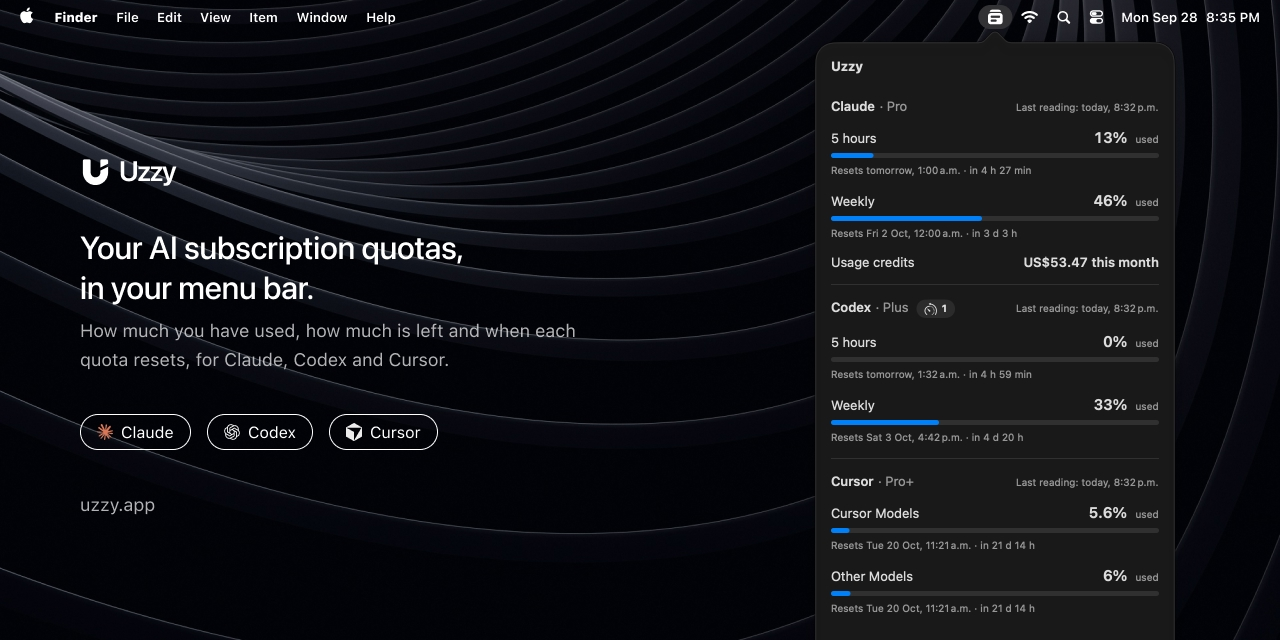
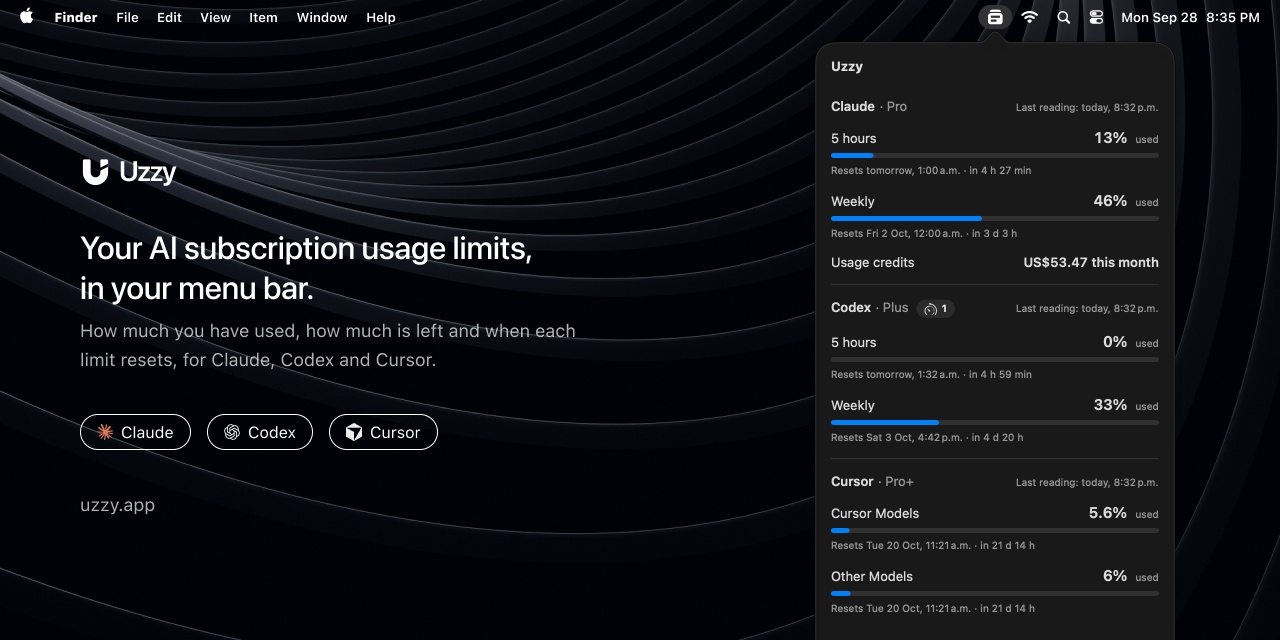
fix(site): say usage limits instead of quotas in the site, readme and og image (#142)
* docs(context): make the glossary cover all copy

- Add a Copy entry: the glossary applies to the app, uzzy.app, the
  README and the social images, not just the app.
- Allow shortening «usage limit» to «limit» once the text has said
  «usage limit» and it cannot be read as the monthly spend limit.

Ref: #140

* fix(site): say usage limits instead of quotas

- Hero, <title> and og:title now read «Your AI subscription usage
  limits, in your menu bar.»; the subtitle says «each limit resets».
- Each usage limit gets its own bar, with usage credits and banked
  resets shown next to them rather than counted as usage limits.
- Rename the providers' quotas field to shows, and reword the intro,
  privacy, disclaimer, CTA and alt texts.
- Re-export og.jpg from the Figma frame with the new headline.

Ref: #140

* docs(readme): say usage limits instead of quotas

- Open with the site's hero wording and subtitle.
- Rename the providers table's Quotas column to What it shows, and
  keep usage credits and banked resets apart from usage limits.

Closes: #140

* chore: say usage limits in the github social preview

- Re-export docs/images/github-social.jpg from the Figma frame
  «og:image - github (JPEG)» with the same headline and subtitle as
  og.jpg: «Your AI subscription usage limits, in your menu bar.» and
  «each limit resets».

Ref: #140

Changed region(s): [[0.0625, 0.5312, 0.3438, 0.5938], [0.2812, 0.375, 0.4062, 0.4062]]

diff --git a/site/src/content.ts b/site/src/content.ts
@@ -6,13 +6,13 @@ export const VERSION = "0.1.0";
 export const REQUIREMENTS = "macOS 27 · Apple Silicon";
 
 export const hero = {
-  title: "Your AI subscription quotas, in your menu bar.",
+  title: "Your AI subscription usage limits, in your menu bar.",
   subtitle:
-    "How much you have used, how much is left and when each quota resets, for Claude, Codex and Cursor.",
+    "How much you have used, how much is left and when each limit resets, for Claude, Codex and Cursor.",
 };
 
 export const why =
-  "If you pay for more than one AI coding subscription, finding out how close you are to a limit means opening each provider's dashboard. Uzzy puts every quota in one panel, reusing the sessions Claude Code, Codex CLI and Cursor already keep on your Mac. Nothing to sign in to, no API key to paste.";
+  "If you pay for more than one AI coding subscription, finding out how close you are to a limit means opening each provider's dashboard. Uzzy puts every usage limit in one panel, reusing the sessions Claude Code, Codex CLI and Cursor already keep on your Mac. Nothing to sign in to, no API key to paste.";
 
 export const features = [
   {
@@ -20,12 +20,12 @@ export const features = [
     body: "A menu bar icon opens a panel with a card for each subscription, and each card shows the account's plan next to its name.",
   },
   {
-    title: "Every quota on its own",
-    body: "5 hours, weekly, per model, usage credits: each quota gets its own bar, its reset in local time with a countdown, and when it was last read. Never blended into one number.",
+    title: "Every usage limit on its own",
+    body: "5 hours, weekly, per model: each usage limit gets its own bar, its reset in local time with a countdown, and when it was last read, never blended into one number. Usage credits and banked resets are shown next to them.",
   },
   {
     title: "Only asks while you look",
-    body: "Uzzy reads your quotas when you open the panel and every five minutes while it stays open. Closed, it makes no requests at all.",
+    body: "Uzzy reads your usage limits when you open the panel and every five minutes while it stays open. Closed, it makes no requests at all.",
   },
   {
     title: "Honest when things fail",
@@ -37,27 +37,27 @@ export const providers = [
   {
     name: "Claude",
     session: "Claude Code",
-    quotas: "5 hours, weekly, weekly per model, usage credits this month",
+    shows: "5 hours, weekly, weekly per model, usage credits this month",
   },
   {
     name: "Codex",
     session: "Codex CLI (ChatGPT sign-in)",
-    quotas: "5 hours, weekly, extra limits, banked resets",
+    shows: "5 hours, weekly, extra limits, banked resets",
   },
   {
     name: "Cursor",
     session: "Cursor",
-    quotas: "Cursor Models and Other Models for the billing cycle",
+    shows: "Cursor Models and Other Models for the billing cycle",
   },
 ];
 
 export const privacy = [
   "Reuses your existing sessions read-only. Never asks for a password, never signs in, never writes credentials.",
   "Talks only to api.anthropic.com, chatgpt.com and api2.cursor.sh. No telemetry, no server of its own.",
-  "Quotas live in memory only. Nothing is written to disk.",
+  "Usage data lives in memory only. Nothing is written to disk.",
   "This site counts visits with Cloudflare Web Analytics: no cookies, no personal data. The app itself sends nothing.",
 ];
 export const hosts = ["api.anthropic.com", "chatgpt.com", "api2.cursor.sh"];
 
 export const disclaimer =
-  "Uzzy is an independent project, not affiliated with, endorsed or sponsored by Anthropic, OpenAI or Anysphere. It reads quotas through undocumented endpoints that may change without notice.";
+  "Uzzy is an independent project, not affiliated with, endorsed or sponsored by Anthropic, OpenAI or Anysphere. It reads usage data through undocumented endpoints that may change without notice.";

diff --git a/README.md b/README.md
@@ -1,8 +1,8 @@
 <h1 align="center">Uzzy</h1>
 
 <p align="center">
-  <strong>Your Claude, Codex and Cursor subscription quotas, one click away in the macOS menu bar.</strong><br>
-  How much you have used, how much is left and when each quota resets.
+  <strong>Your AI subscription usage limits, in your menu bar.</strong><br>
+  How much you have used, how much is left and when each limit resets, for Claude, Codex and Cursor.
 </p>
 
 <p align="center">
@@ -17,37 +17,37 @@
 </p>
 
 <p align="center">
-  <img src="docs/images/app.jpg" width="420" alt="The Uzzy panel open from the menu bar, with one card each for Claude, Codex and Cursor and each account's plan next to its title. Every quota has its own bar, its used percentage and its reset time; the Claude card also shows the usage credits spent this month, and the Codex card a badge with its banked resets.">
+  <img src="docs/images/app.jpg" width="420" alt="The Uzzy panel open from the menu bar, with one card each for Claude, Codex and Cursor and each account's plan next to its title. Every usage limit has its own bar, its used percentage and its reset time; the Claude card also shows the usage credits spent this month, and the Codex card a badge with its banked resets.">
 </p>
 
 ## Why Uzzy
 
-If you pay for more than one AI coding subscription, finding out how close you are to a limit means opening each provider's dashboard. Uzzy puts every quota in one panel, reusing the sessions Claude Code, Codex CLI and Cursor already keep on your Mac. There is nothing to sign in to and no API key to paste.
+If you pay for more than one AI coding subscription, finding out how close you are to a limit means opening each provider's dashboard. Uzzy puts every usage limit in one panel, reusing the sessions Claude Code, Codex CLI and Cursor already keep on your Mac. There is nothing to sign in to and no API key to paste.
 
 ## Features
 
 - **One card per provider.** A fixed menu bar icon opens a panel with a card for each enabled provider.
-- **Every quota on its own.** Each quota («5 horas», «Semanal», «Cursor Models»…) gets its own bar, its reset in local time with a countdown, and the time of its last reading. Quotas are never combined into a single percentage.
-- **Queries only while you look.** Uzzy reads the quotas when you open the panel (unless the last reading is under five minutes old), every five minutes while it stays open, and on demand with the refresh button. With the panel closed it makes no requests.
+- **Every usage limit on its own.** Each usage limit («5 horas», «Semanal», «Cursor Models»…) gets its own bar, its reset in local time with a countdown, and the time of its last reading. Usage limits are never combined into a single percentage, and usage credits and banked resets are shown next to them.
+- **Queries only while you look.** Uzzy reads the usage limits when you open the panel (unless the last reading is under five minutes old), every five minutes while it stays open, and on demand with the refresh button. With the panel closed it makes no requests.
 - **Honest failures.** If a provider fails, its card explains why (no session, expired session, offline, incompatible response…) and the others keep working. When a refresh fails, the card keeps the last valid reading and marks it as stale. Missing data is never shown as zero.
-- **Native settings.** Choose used or remaining quota, and turn each provider on or off or change the order of the cards.
+- **Native settings.** Choose whether the cards show how much is used or left, and turn each provider on or off or change the order of the cards.
 - **Your language.** The interface follows the system language: English or Spanish.
 
 <p align="center">
   <img src="docs/images/settings.jpg" width="520" alt="The Uzzy Settings window: a Used / Left switch for the percentage on the cards, and the Claude, Codex and Cursor providers with buttons to reorder them and a switch to turn each one on or off.">
 </p>
 
-Open Settings with ⌘, from the panel; ⌘W closes it and ⌘Q quits. Your choices are remembered across launches, and a disabled provider has no card: Uzzy does not read its session or query its quotas.
+Open Settings with ⌘, from the panel; ⌘W closes it and ⌘Q quits. Your choices are remembered across launches, and a disabled provider has no card: Uzzy does not read its session or query its usage limits.
 
 ## Supported providers
 
-| Provider | Session it reuses | Quotas |
+| Provider | Session it reuses | What it shows |
 |---|---|---|
 | **Claude** | Claude Code (the Keychain and `~/.claude.json`) | 5 hours, weekly, and weekly per model when the plan has them; also the usage credits spent this month and their monthly limit («Créditos de uso»), when usage credits are on |
 | **Codex** | Codex CLI signed in with ChatGPT (`~/.codex/auth.json` or `$CODEX_HOME`) | 5 hours, weekly, any extra limit the plan has, and the account's banked resets |
 | **Cursor** | Cursor (its local `state.vscdb`) | «Cursor Models» and «Other Models» for the billing cycle |
 
-Each card also shows the account's plan next to its title, e.g. «Claude · Max», when the provider reports a plan Uzzy knows: Claude Code keeps it in its Keychain item, Codex sends it with the quotas and Cursor keeps it in `state.vscdb`.
+Each card also shows the account's plan next to its title, e.g. «Claude · Max», when the provider reports a plan Uzzy knows: Claude Code keeps it in its Keychain item, Codex sends it with the usage limits and Cursor keeps it in `state.vscdb`.
 
 Uzzy reads Claude Code's Keychain item through `/usr/bin/security`, the tool Claude Code writes it with. The item already trusts that tool, so macOS shows no Keychain prompt, even after Claude Code refreshes its token.
 
@@ -55,8 +55,8 @@ Uzzy reads Claude Code's Keychain item through `/usr/bin/security`, the tool Cla
 
 - Reuses, **read-only**, the sessions that already exist in Claude Code, Codex CLI and Cursor. It never asks for passwords, signs in, refreshes tokens or writes credentials.
 - Only connects to `api.anthropic.com`, `chatgpt.com` and `api2.cursor.sh`. No telemetry and no server of its own.
-- Quotas live only in memory; nothing is written to disk.
-- Display magnitude, provider visibility and provider order preferences are stored in local `UserDefaults`; they contain no quota, token, email or account identifier.
+- Usage data lives only in memory; nothing is written to disk.
+- Display magnitude, provider visibility and provider order preferences are stored in local `UserDefaults`; they contain no usage data, token, email or account identifier.
 
 ## Install
 
@@ -77,7 +77,7 @@ See [CONTRIBUTING.md](CONTRIBUTING.md). To report a vulnerability, see [SECURITY
 
 ## Disclaimer
 
-The endpoints the app uses to read quotas are **internal and undocumented** by the providers. They may change or stop working without notice, and each person is responsible for using them within their provider's terms.
+The endpoints the app uses to read usage data are **internal and undocumented** by the providers. They may change or stop working without notice, and each person is responsible for using them within their provider's terms.
 
 Uzzy is an independent project, not affiliated with, endorsed by or sponsored by the makers of Claude, Codex, ChatGPT or Cursor. All product names and trademarks belong to their respective owners.
 

diff --git a/CONTEXT.md b/CONTEXT.md
@@ -4,9 +4,13 @@ Uzzy shows the subscription quotas of AI services and when they reset.
 
 ## Language
 
+**Copy**:
+Any text a person reads about Uzzy: the app, the uzzy.app site, the README and the social images. The Spanish and English terms below apply to all of it.
+_Avoid_: Treating marketing text as exempt from the glossary.
+
 **Subscription quota**:
 A usage limit a provider applies to a subscription over a given period. Distinct from monetary spend and from billed API consumption.
-In Spanish copy it is a «límite de uso»; in English copy, a «usage limit».
+In Spanish copy it is a «límite de uso»; in English copy, a «usage limit», shortened to «limit» once the text has said «usage limit» and it cannot be read as the monthly spend limit (see **Usage credits**).
 _Avoid_: Balance, credits, consumption (without saying what is measured); «quota» in English copy; in Spanish, «cuota» (reads as a fee).
 
 **Used quota**:
